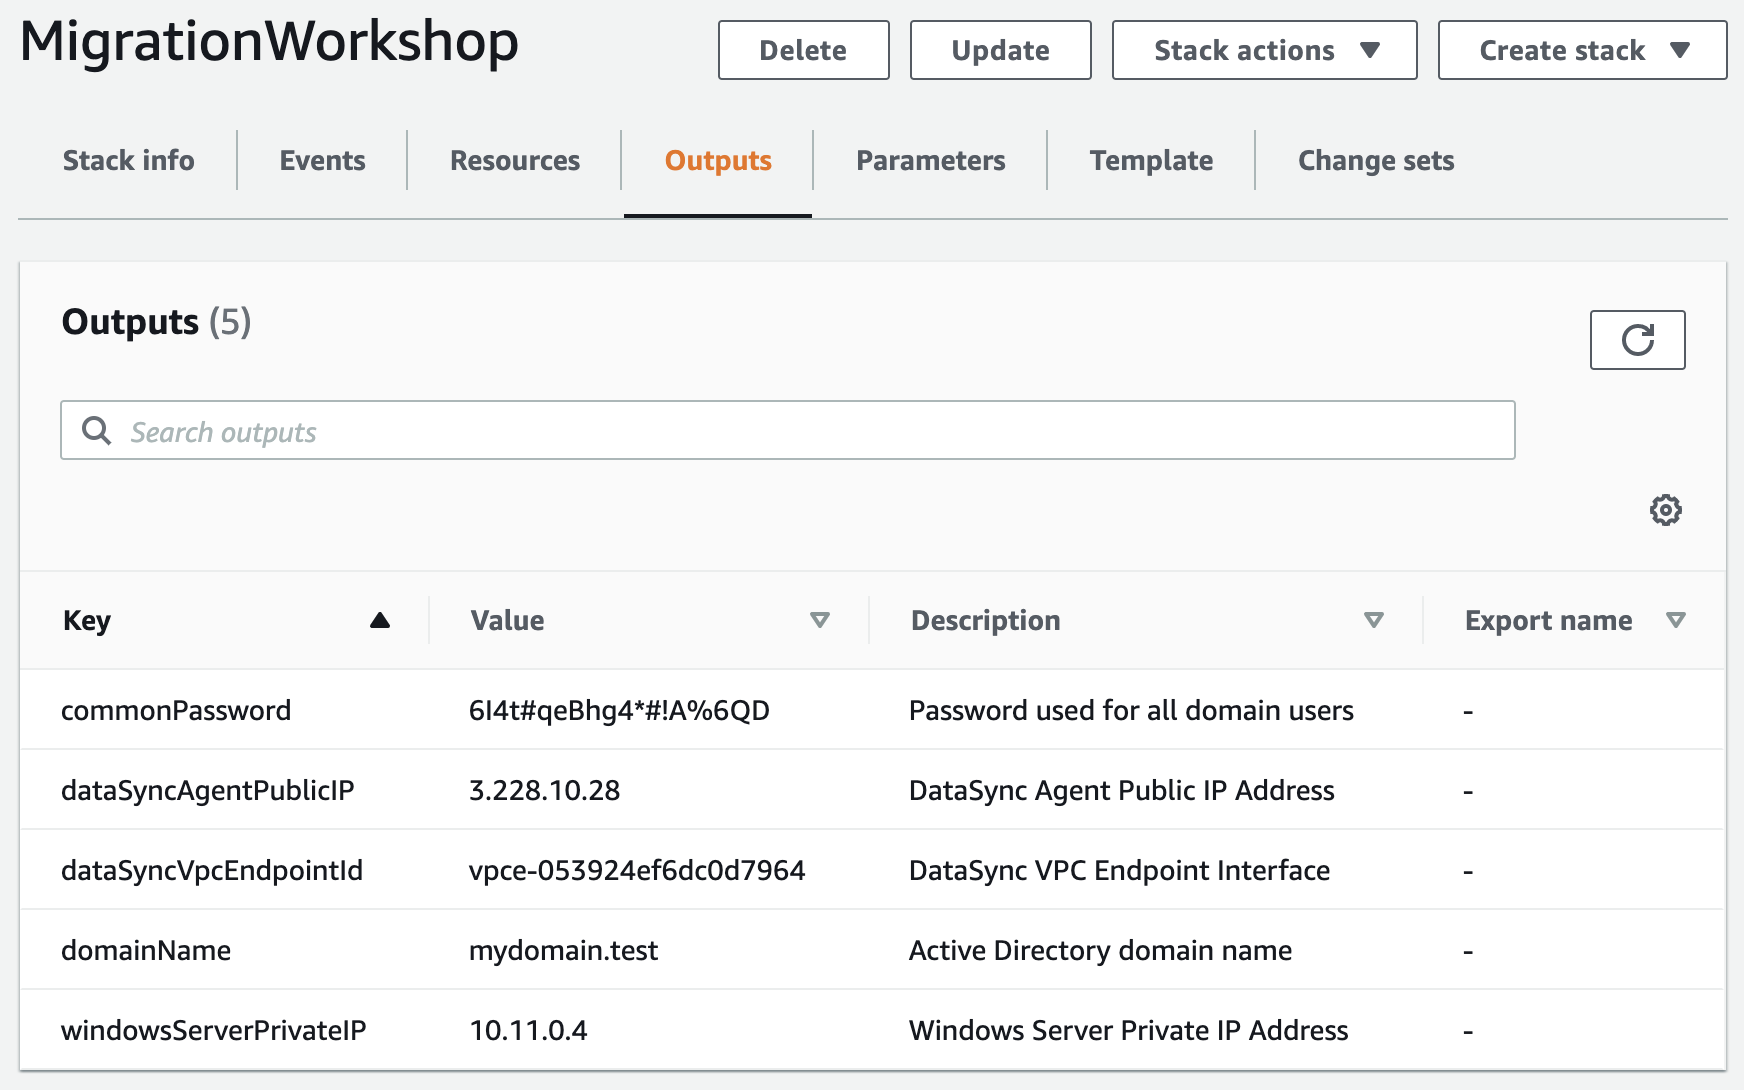
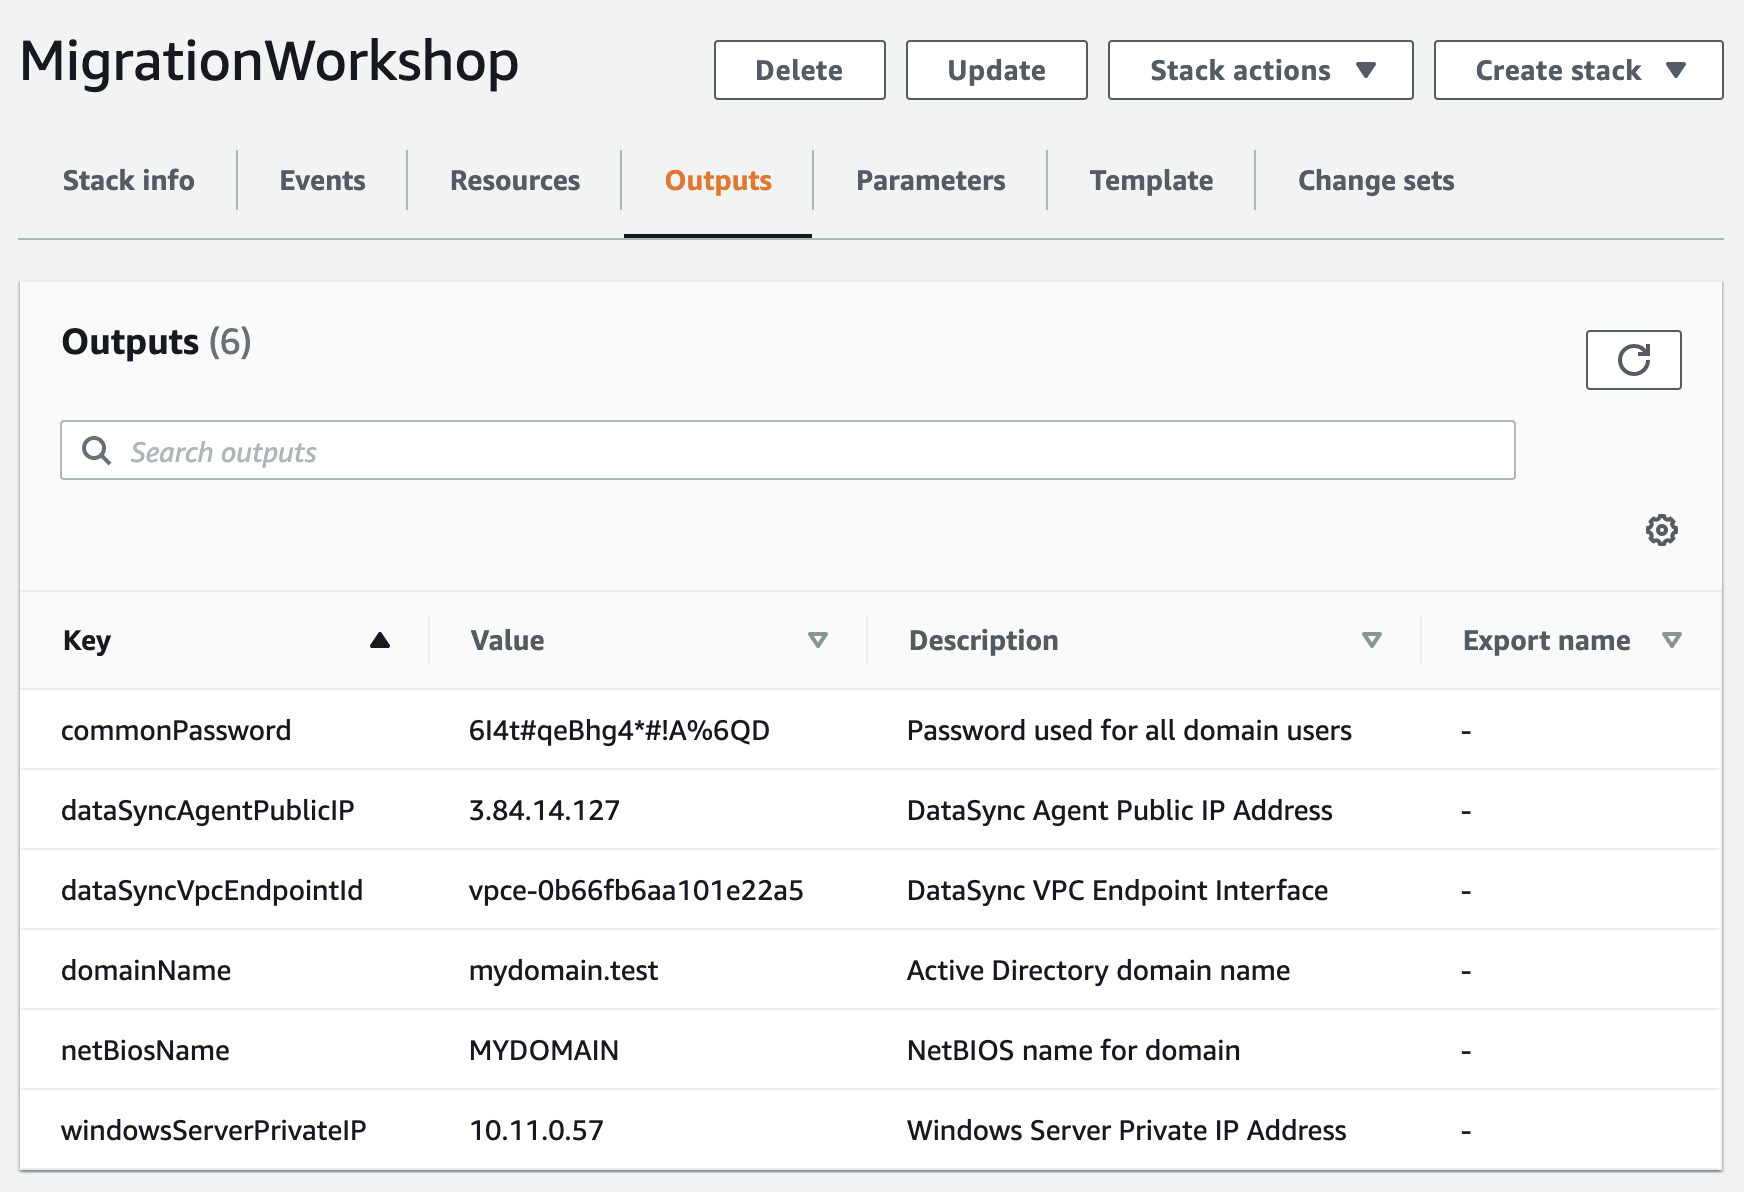
Fix up image

diff --git a/module1/README.md b/module1/README.md
@@ -53,8 +53,7 @@ On the CloudFormation page , click on the **Outputs** tab, as shown in the image
 - **netBiosName** – This is the NetBIOS name of the Active Directory domain that you entered as a parameter when the stack was being created.  
 - **windowsServerPrivateIp** – This is the private IP address of the EC2 instance running the Windows Server .  You will copy data from this server to FSx for Windows using DataSync.
 
-TODO: need new picture with NetBIOS name
-![](../images/mod1-cfout.png)
+<img src="../images/mod1-cfout.png" width="75%" height="75%">
 
 ## Validation Step
 
